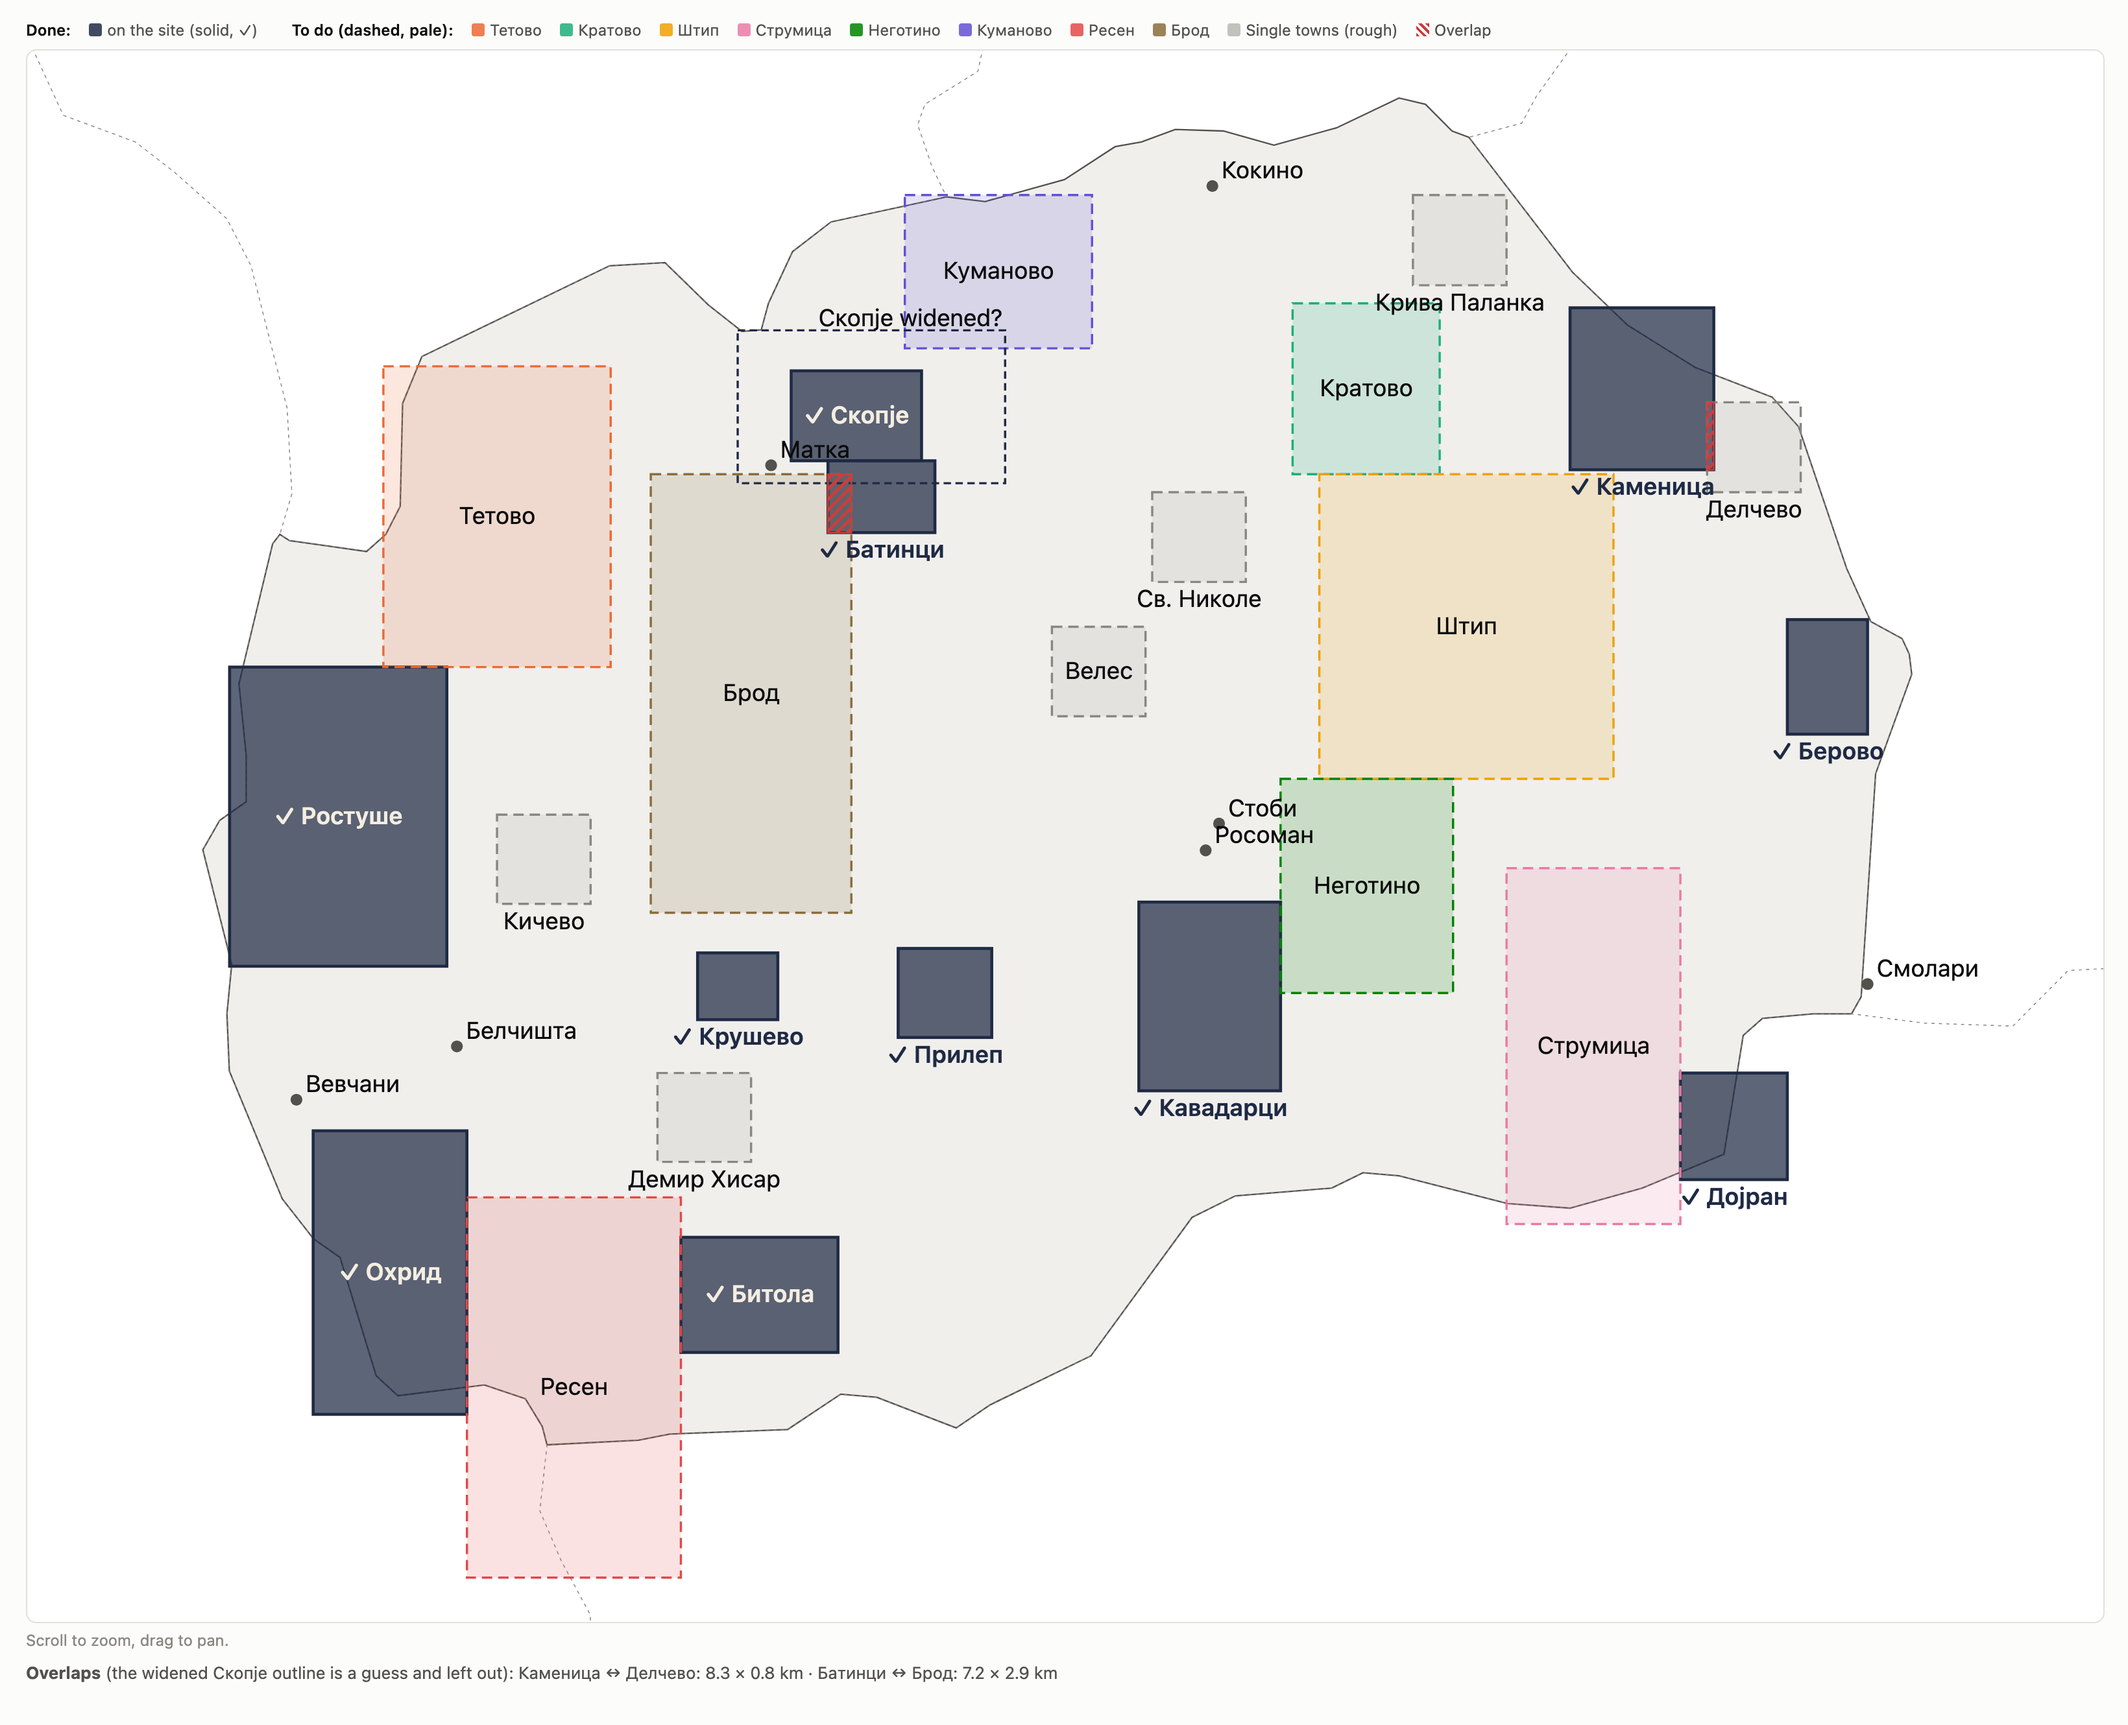
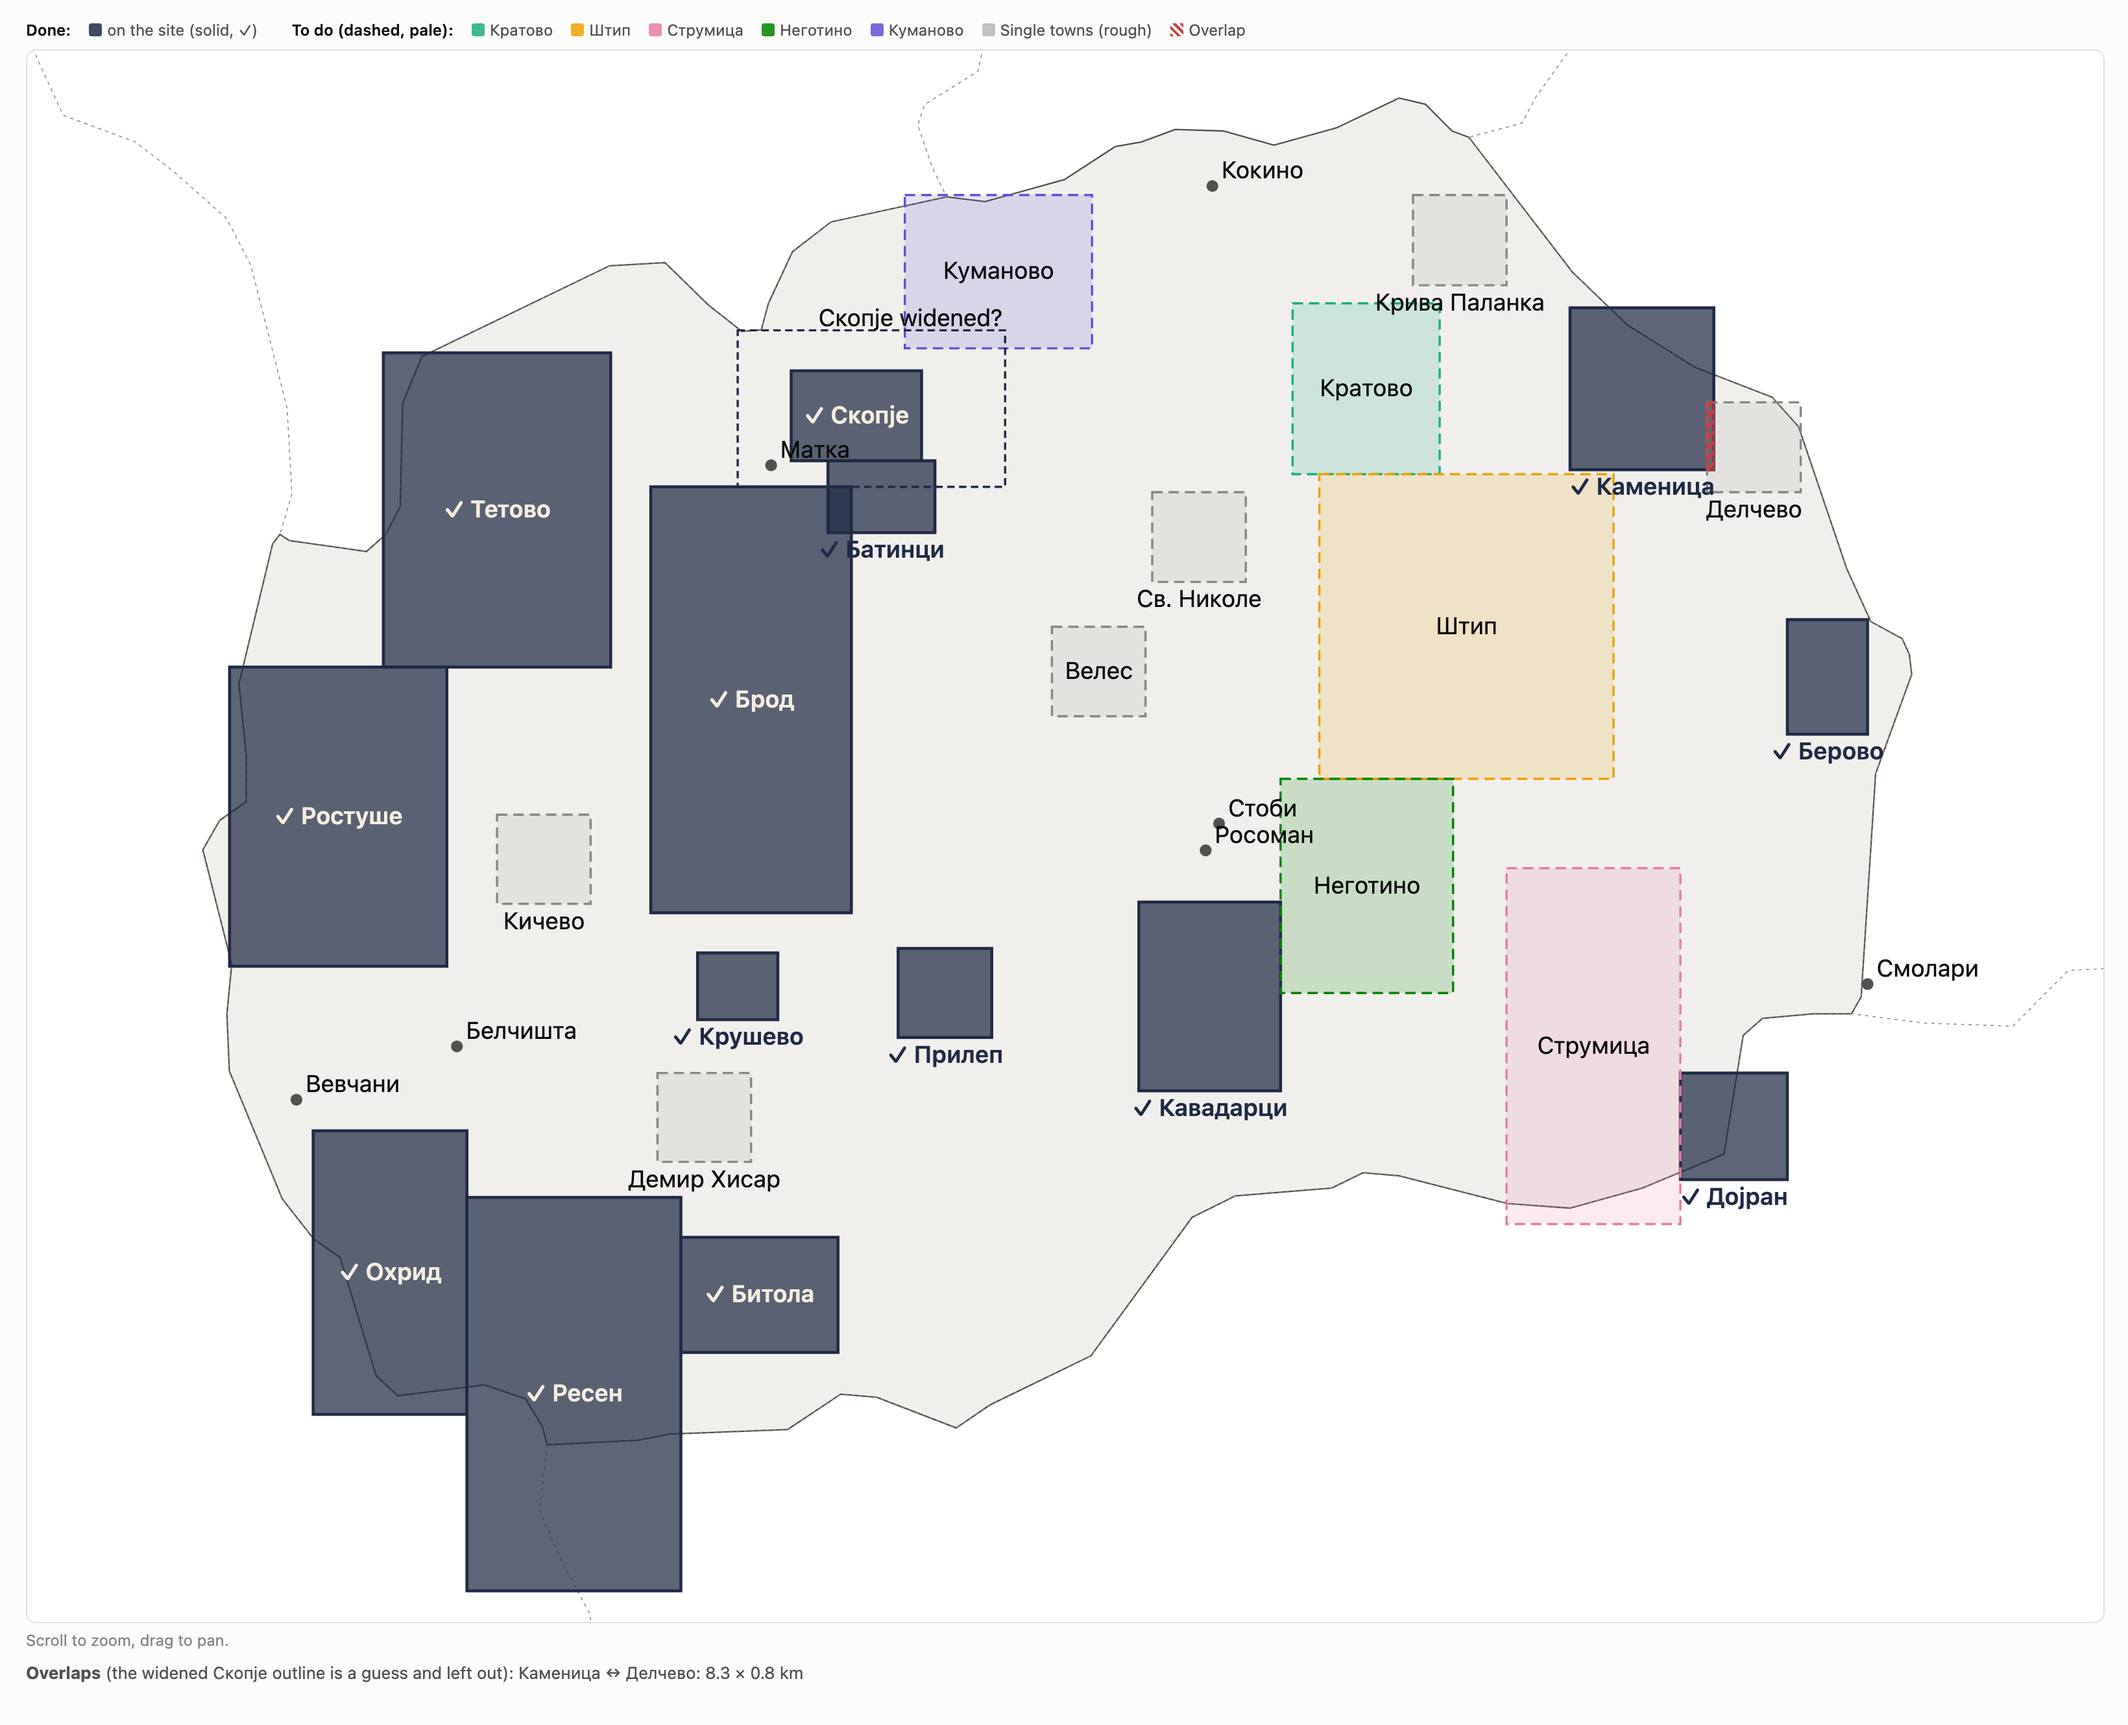
City picker order; towns map with Тетово, Брод, Ресен done
- The picker goes Берово, Тетово, Ресен, Брод, Каменица, Батинци.
- docs/towns-map.png redrawn: the three new maps at their built extents.
- The page that draws it is now scripts/towns-map.html (was a local, git-excluded
  file); the render command is in docs/TOWNS_TODO.md.

Changed region(s): [[0.1555, 0.1872, 0.4043, 0.5305], [0.2177, 0.6865, 0.3421, 0.9361], [0.2177, 0.0, 0.5909, 0.0312]]

diff --git a/scripts/towns-map.html b/scripts/towns-map.html
@@ -1,0 +1,33 @@
+<!doctype html><html lang="mk"><head><meta charset="utf-8"><meta name="viewport" content="width=device-width,initial-scale=1"><title>Town map extents</title>
+<style>:root{--text-primary:#0b0b0b;--text-secondary:#52514e}body{margin:0;padding:16px;background:#fcfcfb;font-family:system-ui,sans-serif;color:var(--text-primary)}#wrap{max-width:1600px;margin:auto}#map svg{border:1px solid #e1e0d9;border-radius:8px;background:#fff;cursor:grab;display:block}</style></head><body><div id="wrap">
+<div id="legend" style="display:flex;flex-wrap:wrap;gap:6px 14px;font-size:12px;color:var(--text-secondary);margin:0 0 8px"></div>
+<div id="map" style="width:100%"></div>
+<div style="font-size:12px;color:#898781;margin:6px 0">Scroll to zoom, drag to pan.</div><div id="ov" style="font-size:13px;color:var(--text-secondary);margin-top:8px;line-height:1.6"></div></div>
+<script src="https://cdnjs.cloudflare.com/ajax/libs/d3/7.8.5/d3.min.js"></script>
+<script src="https://cdnjs.cloudflare.com/ajax/libs/topojson/3.0.2/topojson.min.js"></script>
+<script>
+const dark=false;const EX='#1f2a44';
+const existing=[['Скопје',41.955,21.33,42.055,21.525],['Кавадарци',41.25,21.85,41.462,22.062],['Битола',40.955,21.165,41.085,21.40],['Охрид',40.885,20.615,41.205,20.845],['Прилеп',41.31,21.49,41.41,21.63],['Крушево',41.33,21.19,41.405,21.31],['Ростуше',41.39,20.49,41.725,20.815],['Каменица',41.945,22.495,42.125,22.71],['Дојран',41.15,22.66,41.27,22.82],['Батинци',41.875,21.385,41.955,21.545],['Берово',41.65,22.82,41.778,22.94],['Тетово',41.725,20.72,42.075,21.06],['Ресен',40.685,20.845,41.13,21.165],['Брод',41.45,21.12,41.926,21.42]];
+const planned=[['Кратово',41.94,22.08,42.13,22.30,'#1baf7a'],['Штип',41.60,22.12,41.94,22.56,'#eda100'],['Струмица',41.10,22.40,41.50,22.66,'#e87ba4'],['Неготино',41.36,22.062,41.60,22.32,'#008300'],['Куманово',42.08,21.50,42.25,21.78,'#6250d6']];
+const SG='#888780',sh=[0.05,0.07];
+const singles=[['Велес',41.72,21.79],['Св. Николе',41.87,21.94],['Кичево',41.51,20.96],['Демир Хисар',41.22,21.20],['Делчево',41.97,22.77],['Крива Паланка',42.20,22.33]].map(([n,la,lo])=>[n,la-sh[0],lo-sh[1],la+sh[0],lo+sh[1],SG]);
+const skopjeWide=['Скопје widened (guess)',41.926,21.25,42.10,21.65];
+const points=[['Стоби',41.55,21.97],['Вевчани',41.24,20.59],['Росоман',41.52,21.95],['Кокино',42.26,21.96],['Смолари',41.37,22.94],['Белчишта',41.30,20.83],['Матка',41.95,21.30]];
+const sw=(c,d)=>`<span style="width:10px;height:10px;border-radius:2px;background:${c};opacity:${d?0.5:0.85};display:inline-block"></span>`;
+document.getElementById('legend').innerHTML=`<b style="font-weight:600;color:#0b0b0b">Done:</b><span style="display:flex;gap:4px;align-items:center">${sw(EX)}on the site (solid, ✓)</span><b style="font-weight:600;color:#0b0b0b;margin-left:12px">To do (dashed, pale):</b>`+planned.map(p=>`<span style="display:flex;gap:4px;align-items:center">${sw(p[5])}${p[0]}</span>`).join('')+`<span style="display:flex;gap:4px;align-items:center">${sw(SG,1)}Single towns (rough)</span><span style="display:flex;gap:4px;align-items:center"><span style="width:10px;height:10px;background:repeating-linear-gradient(45deg,#d03b3b 0 2px,transparent 2px 4px);display:inline-block"></span>Overlap</span>`;
+const W=1400,H=1060;const root=d3.select('#map').append('svg').attr('viewBox',`0 0 ${W} ${H}`).attr('width','100%');const svg=root.append('g');root.call(d3.zoom().scaleExtent([1,12]).on('zoom',e=>{svg.attr('transform',e.transform);svg.selectAll('text').attr('font-size',16/e.transform.k);svg.selectAll('circle').attr('r',4/e.transform.k);svg.selectAll('rect,path').attr('stroke-width',1.5/e.transform.k);}));
+root.append('defs').html('<pattern id="hz" width="5" height="5" patternUnits="userSpaceOnUse" patternTransform="rotate(45)"><rect width="2" height="5" fill="#d03b3b"/></pattern>');
+const ext={type:'Feature',geometry:{type:'Polygon',coordinates:[[[20.44,40.66],[20.44,42.40],[23.04,42.40],[23.04,40.66],[20.44,40.66]]]}};
+const proj=d3.geoMercator().fitExtent([[6,6],[W-6,H-6]],ext);const path=d3.geoPath(proj);const ink='#52514e',muted='#898781';
+function rect(b){const a=proj([b[2],b[3]]),c=proj([b[4],b[1]]);return{x:a[0],y:a[1],w:c[0]-a[0],h:c[1]-a[1]};}
+d3.json('https://cdn.jsdelivr.net/npm/world-atlas@2/countries-50m.json').then(w=>{const f=topojson.feature(w,w.objects.countries).features;svg.insert('g',':first-child').selectAll('path').data(f).join('path').attr('d',path).attr('fill',d=>d.id==='807'?'#f0efec':'none').attr('stroke',d=>d.id==='807'?ink:muted).attr('stroke-width',d=>d.id==='807'?1:0.5).attr('stroke-dasharray',d=>d.id==='807'?null:'2 3');draw();}).catch(()=>draw());
+function box(b,col,op,dash,sw){const r=rect(b);svg.append('rect').attr('x',r.x).attr('y',r.y).attr('width',r.w).attr('height',r.h).attr('fill',col).attr('fill-opacity',op).attr('stroke',col).attr('stroke-width',sw||1.5).attr('stroke-dasharray',dash||null);}
+function label(t,x,y,a,c,wt){svg.append('text').attr('x',x).attr('y',y).attr('text-anchor',a||'middle').attr('font-size',16).attr('font-weight',wt||400).attr('fill',c||'#0b0b0b').text(t);}
+function draw(){const all=[...existing.map(e=>[...e,EX,'e']),...planned.map(p=>[...p,'p']),...singles.map(s=>[...s,'s'])];
+existing.forEach(e=>box(e,EX,0.72,null,2));planned.forEach(p=>box(p,p[5],0.16,'7 4'));singles.forEach(s=>box(s,SG,0.12,'7 4'));box(skopjeWide,EX,0,'5 3');
+const ov=[];for(let i=0;i<all.length;i++)for(let j=i+1;j<all.length;j++){const A=all[i],B=all[j];if(A[6]==='e'&&B[6]==='e')continue;const s=Math.max(A[1],B[1]),n=Math.min(A[3],B[3]),wv=Math.max(A[2],B[2]),e=Math.min(A[4],B[4]);
+if(n-s>1e-4&&e-wv>1e-4){const r=rect(['',s,wv,n,e]);svg.append('rect').attr('x',r.x).attr('y',r.y).attr('width',Math.max(r.w,1.5)).attr('height',Math.max(r.h,1.5)).attr('fill','url(#hz)').attr('stroke','#d03b3b');ov.push(`${A[0]} ↔ ${B[0]}: ${((n-s)*111).toFixed(1)} × ${((e-wv)*111*Math.cos(41.5*Math.PI/180)).toFixed(1)} km`);}}
+points.forEach(([n,la,lo])=>{const[x,y]=proj([lo,la]);svg.append('circle').attr('cx',x).attr('cy',y).attr('r',4).attr('fill',ink);label(n,x+6,y-5,'start');});
+all.forEach(b=>{const r=rect(b);const done=b[6]==='e';const t=done?'✓ '+b[0]:b[0];const fits=t.length*9+10<r.w;label(t,r.x+r.w/2,fits?r.y+r.h/2+5:r.y+r.h+17,'middle',done&&fits?'#f4ede0':(done?'#1f2a44':'#0b0b0b'),done?600:400);});const r=rect(skopjeWide);label('Скопје widened?',r.x+r.w-2,r.y-3,'end');
+document.getElementById('ov').innerHTML='<b>Overlaps</b> (the widened Скопје outline is a guess and left out): '+(ov.length?ov.join(' · '):'none');}
+</script></body></html>

diff --git a/src/cities.ts b/src/cities.ts
@@ -5,7 +5,7 @@ import type { Key } from './i18n.ts';
 import type { Vec3 } from './types.ts';
 import type { TreeThin } from './city.ts';
 
-export const CITY_IDS = ['skopje', 'kavadarci', 'rostuse', 'ohrid', 'bitola', 'krusevo', 'prilep', 'dojran', 'berovo', 'kamenica', 'batinci', 'tetovo', 'brod', 'resen'] as const;
+export const CITY_IDS = ['skopje', 'kavadarci', 'rostuse', 'ohrid', 'bitola', 'krusevo', 'prilep', 'dojran', 'berovo', 'tetovo', 'resen', 'brod', 'kamenica', 'batinci'] as const;
 export type CityId = (typeof CITY_IDS)[number];
 export const DEFAULT_CITY: CityId = 'skopje';
 export const isCityId = (s: string | null | undefined): s is CityId => !!s && (CITY_IDS as readonly string[]).includes(s);

diff --git a/docs/TOWNS_TODO.md b/docs/TOWNS_TODO.md
@@ -8,6 +8,13 @@ Details in the first table below.
 
 ![Map extents: done (solid, ✓) and to do (dashed)](towns-map.png)
 
+The map is drawn by [scripts/towns-map.html](../scripts/towns-map.html) (d3 from a CDN; the boxes are typed in
+by hand: move a town from `planned` to `existing` when it is built). With `npm run dev` running:
+
+```bash
+"/Applications/Google Chrome.app/Contents/MacOS/Google Chrome" --headless=new --disable-gpu --hide-scrollbars --force-device-scale-factor=2 --window-size=1640,1330 --virtual-time-budget=8000 --screenshot=docs/towns-map.png http://localhost:5173/scripts/towns-map.html
+```
+
 **To do: 11 new maps** (5 shared, 6 single) **and Скопје widened** (east, west, north, with Матка), planned with the owner on 2026-11-21
 (14 maps then; Тетово, Брод and Ресен are built). Кратово is next in the list. How to build one: [ADDING_A_CITY.md](ADDING_A_CITY.md).
 
